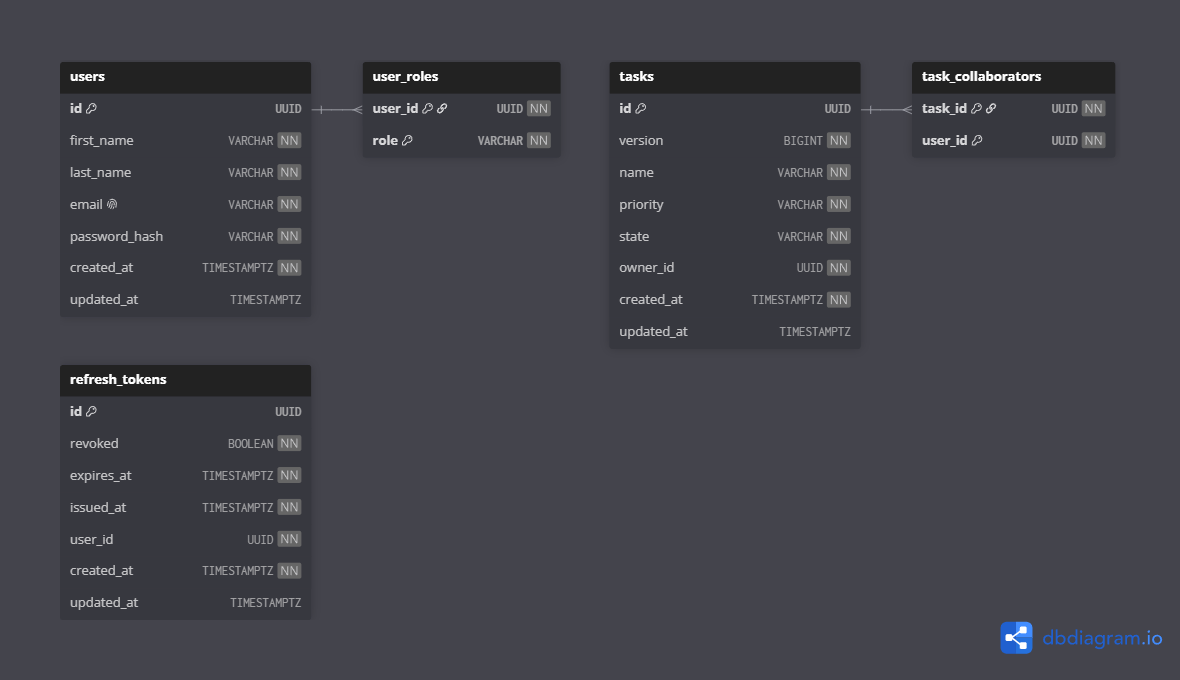
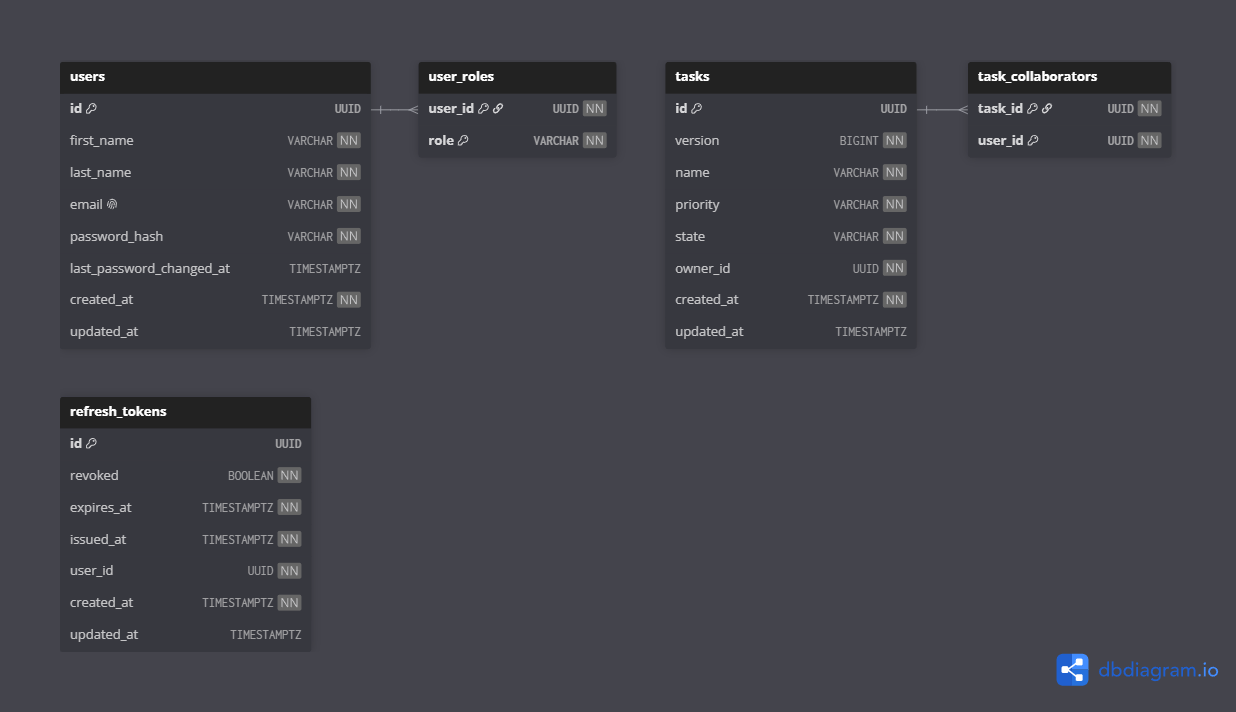
feat(user): add last_password_changed_at field and update schema

diff --git a/src/main/java/com/kvanzi/todotaskbackend/user/internal/entity/User.java b/src/main/java/com/kvanzi/todotaskbackend/user/internal/entity/User.java
@@ -3,6 +3,7 @@ package com.kvanzi.todotaskbackend.user.internal.entity;
 import com.kvanzi.todotaskbackend.shared.persistence.BaseEntity;
 import com.kvanzi.todotaskbackend.user.api.enumeration.Role;
 import jakarta.persistence.*;
+import java.time.Instant;
 import java.util.Collections;
 import java.util.HashSet;
 import java.util.Objects;
@@ -10,6 +11,7 @@ import java.util.Set;
 import lombok.*;
 import lombok.experimental.SuperBuilder;
 import org.jspecify.annotations.NonNull;
+import org.jspecify.annotations.Nullable;
 
 @Getter
 @Setter
@@ -37,6 +39,10 @@ public class User extends BaseEntity {
     @Column(name = "password_hash", nullable = false)
     @NonNull
     private String passwordHash;
+
+    @Column(name = "last_password_changed_at")
+    @Nullable
+    private Instant lastPasswordChangedAt;
 
     @Setter(AccessLevel.NONE)
     @Builder.Default